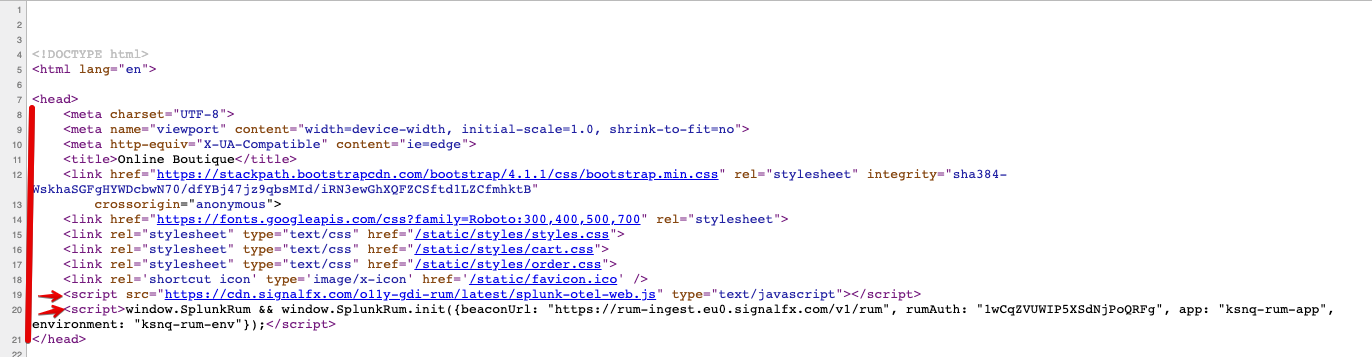
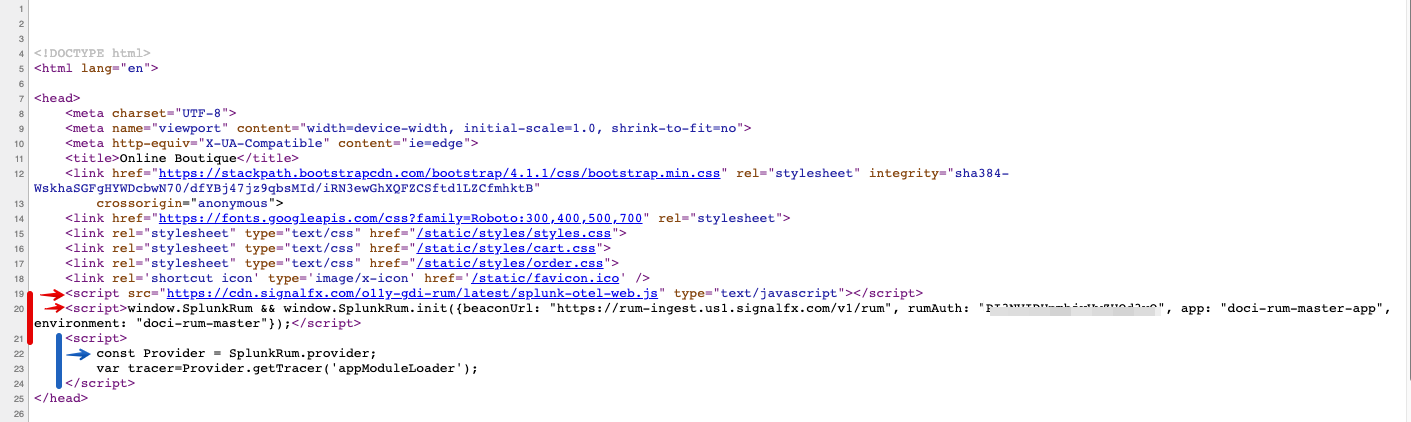
final touches for RUM before GA

Changed region(s): [[0.0, 0.0616, 0.9796, 1.0], [0.9796, 0.0, 1.0, 0.0308], [0.0, 0.0, 0.0306, 0.0308]]

diff --git a/docs/rum/RUM-Setup.md b/docs/rum/RUM-Setup.md
@@ -78,11 +78,11 @@ We are all connecting to the extra RUM Enabled Online Boutique provided by the w
 
 ## 4.  Review the Changes made to enable RUM in the HEAD section of the RUM enabled Online-Boutique
 
-The changes for RUM are placed in the HEAD section of the hosts Web page, Below is the hosts updated HEAD section with the changes required to enable RUM:
+The changes needed for RUM are placed in the HEAD section of the hosts Web page, Below is the hosts updated HEAD section with the changes required to enable RUM:
 
 ![Online Boutique](../images/rum/ViewRUM-HEAD-html.png)
 
-The following two lines have been added to the HEAD section of the host Web page,
+The first three lines  (marked in red) have been added to the HEAD section of the host Web page to enable RUM Tracing, the last three (marked in blue) are optional and used to enable Custom RUM events.
 
 === "RUM addition to HEAD section"
 
@@ -90,7 +90,10 @@ The following two lines have been added to the HEAD section of the host Web page
     <script src="https://cdn.signalfx.com/o11y-gdi-rum/latest/splunk-otel-web.js" type="text/javascript"></script>
     <script>window.SplunkRum && window.SplunkRum.init({beaconUrl: "https://rum-ingest.eu0.signalfx.com/v1/rum",
             rumAuth: "1wCqZVUWIP5XSdNjPoQRFg", app: "ksnq-rum-app", environment: "ksnq-rum-env"});</script>
-
+     <script>
+        const Provider = SplunkRum.provider; 
+        var tracer=Provider.getTracer('appModuleLoader');
+    </script>
     ```
 
 * The first part is to indicate where to download the Splunk Open Telemetry Javascript file from: *<https://cdn.signalfx.com/o11y-gdi-rum/latest/splunk-otel-web.js>* (This can also be loaded locally if so required)
@@ -102,3 +105,5 @@ The following two lines have been added to the HEAD section of the host Web page
     In this example the app name is **ksnq-rum-app**, this will be different in the Workshop. Check with your host what the app name and environment to use in the RUM session will be and make a note of it!
 
 The above two lines are all that is required to enable RUM on your website!
+
+The (blue) optional section that uses *var tracer=Provider.getTracer('appModuleLoader');* will add a custom event for every page change allow you to better track your website conversions and usage.  

diff --git a/docs/rum/RUM-Metrics.md b/docs/rum/RUM-Metrics.md
@@ -41,9 +41,16 @@ The last two panes show you the **Top Page Views** and the **Top Providers**.
 
 ### 2.3. Custom Event Pane
 
-The Custom Event View is the location where you will find the metrics for any event you may have added yourself to the web pages you are monitoring.
-These are often added to pieces of custom code that are not part of a framework or an event you created so you can better understand the flow though your application.
+The Custom Event View is the location where you will find the metrics for any event you may have added yourself to the web pages you are monitoring. 
+
+As we have seen in the RUM enabled website, we have added the follwoing two lines:</br>
+  *const Provider = SplunkRum.provider; </br>
+  var tracer=Provider.getTracer('appModuleLoader');*</br>
+
+These lines  will automatically create custom Events for every new Page, and you can also add these to pieces of custom code that are not part of a framework or an event you created so you can better understand the flow though your application.
 We support **Event Request rate**, **Event Error Rates** and **Event Latency** metrics.
+
+These will help better understand the flow of your website and allows you increase conversions.
 
 ![RUM-CustomMetrics](../images/rum/RUM-Custom-Events.png)
 

diff --git a/aws/rum/README.md b/aws/rum/README.md
@@ -23,7 +23,9 @@ export AWS_SECRET_ACCESS_KEY="YOUR_AWS_SECRET_ACCESS_KEY"
 echo $AWS_ACCESS_KEY_ID $AWS_SECRET_ACCESS_KEY
 ```
 
-NOTE: If you have AWS config and credentials files configured on your laptop and do not set the above Env Vars, your 'default' profile will be used, so ensure it is pointing at the correct AWS Account such as you Splunk Account.
+NOTE 1: If you have AWS config and credentials files configured on your laptop and do not set the above Env Vars, your 'default' profile will be used, so ensure it is pointing at the correct AWS Account such as you Splunk Account.
+
+NOTE 2: If you wish to run this RUM workshop next to the original Workshop to give a full stack workshop, please make sure you install this to a **different** AWS realm to make sure they do not conflict!
 
 ## Step 3 - Configure Terraform Variables
 
